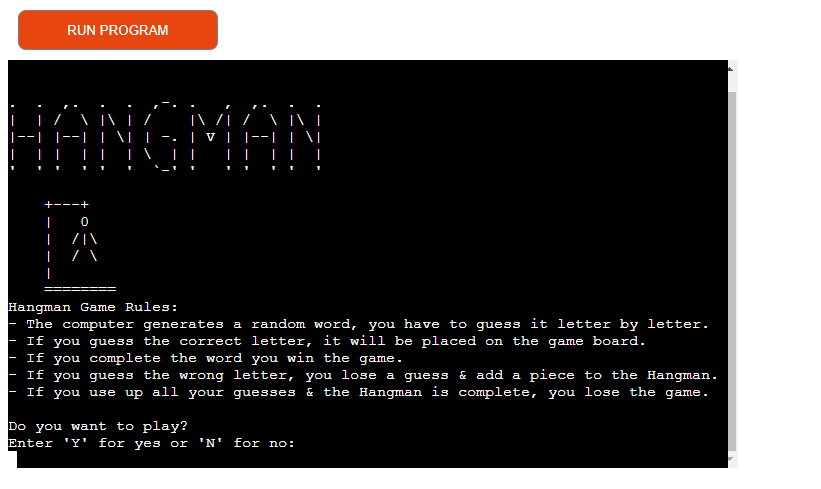
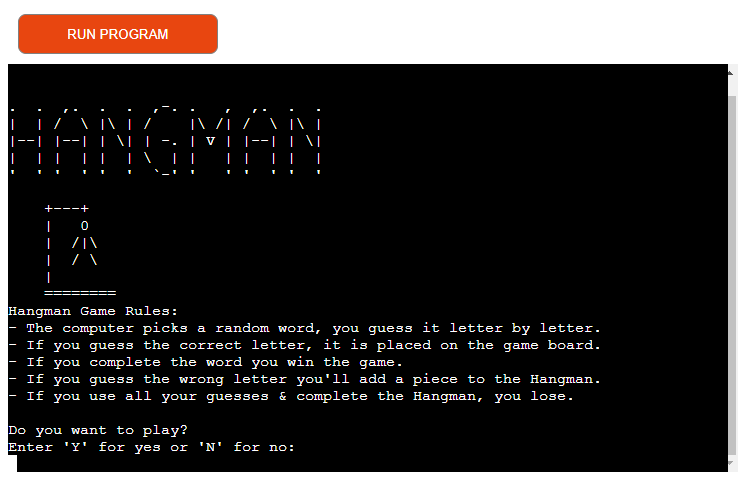
Add screenshots to project features section

Changed region(s): [[0.0, 0.0, 0.9787, 0.9959], [0.0, 0.2178, 0.4282, 0.3734]]

diff --git a/README.md b/README.md
@@ -17,7 +17,7 @@ The popular pen and paper word guessing game, Hangman, can now be played in digi
   * [Skeleton](#skeleton)
     * [Flowchart](#flowchart)
   * [Surface](#surface)
-* [Page Features](#page-features)
+* [Project Features](#project-features)
   * [Welcome](#welcome)
   * [Game](#game)
   * [Game Over](#game-over)
@@ -99,7 +99,7 @@ I created a concept flowchart for my Hangman game using Lucid Chart.
 
 #### Surface
 * Due to the nature of this project, there was no design required. However, I created the Hangman logo using ASCII banner maker and also included the Hangman Gallows on startup of the program.
-* The game rules are displayed underneath the logo before the user is asked if they would like to play, and prompted to input Yes/No
+* The game rules are displayed underneath the logo before the user is asked if they would like to play, and prompted to input Yes/No.
 
 <details>
 <summary>Hangman Logo Banner</summary>
@@ -112,28 +112,58 @@ I created a concept flowchart for my Hangman game using Lucid Chart.
 
 ___
 
-### Page Features
+### Project Features
 
 #### Welcome
-PLACE SCREENGRAB HERE…
+![Screenshot of Hangman App](documentation/hangman_app_terminal_screenshot.png)
 
-The player is presented with the Welcome screen and shown the game rules
+The player is presented with the Welcome screen and shown the game rules. The player is asked if they would like to play. 
+
+If the user inputs N the program ends with a feedback message.
+
+![Screenshot of start feedback message](documentation/hangman_start_player_input_no.png)
+
+If the user inputs Y it starts the game.
 
 #### Game
-PLACE SCREENGRAB HERE…
+![Screenshot of Hangman game start](documentation/hangman_game_board_empty.png)
 
-The player is shown the empty Hangman Gallows along with the placeholders of the hidden word. The number of guesses remaining is displayed, and the player is prompted to enter a letter.
+The player is shown the empty Hangman Gallows along with the placeholders of the hidden word. The player is prompted to enter a letter.
+
+Once a letter is guessed the player receives feedback if their guess is in the word, and also a list of the letters they have already guessed so far.
+
+![Screenshot of Hangman game letter guesses](documentation/hangman_game_board_letter_guessed.png)
+
+<details>
+<summary>When the guessed letter is not in the word</summary>
+<br>
+
+![Screenshot of incorrect letter guess]()
+
+The player is notified that their guess is not in the word. This letter is then added to the list of letters already guessed.
+
+</details>
+
+<details>
+<summary>When the player guesses the same letter again</summary>
+<br>
+
+![Screenshot of already guessed letter]()
+
+The player is notified that their guess is not in the word. This letter is then added to the list of letters already guessed.
+
+</details>
 
 #### Game Over
-PLACE WIN SCREENGRAB HERE…
+![Screenshot of ]()
 
-PLACE LOSE SCREENGRAB HERE…
+![Screenshot of ]()
 
 If the player guesses the full word correctly they have won the game, and are congratulated. If the player runs out of guesses and completes the Hangman, they have lost the game.
 The player is asked if they would like to play again.
 
 #### Validating User input
-PLACE SCREENGRAB HERE…
+![Screenshot of ]()
 
 If the player enters an invalid input the game notifies the player and requests they enter the correct input
 
